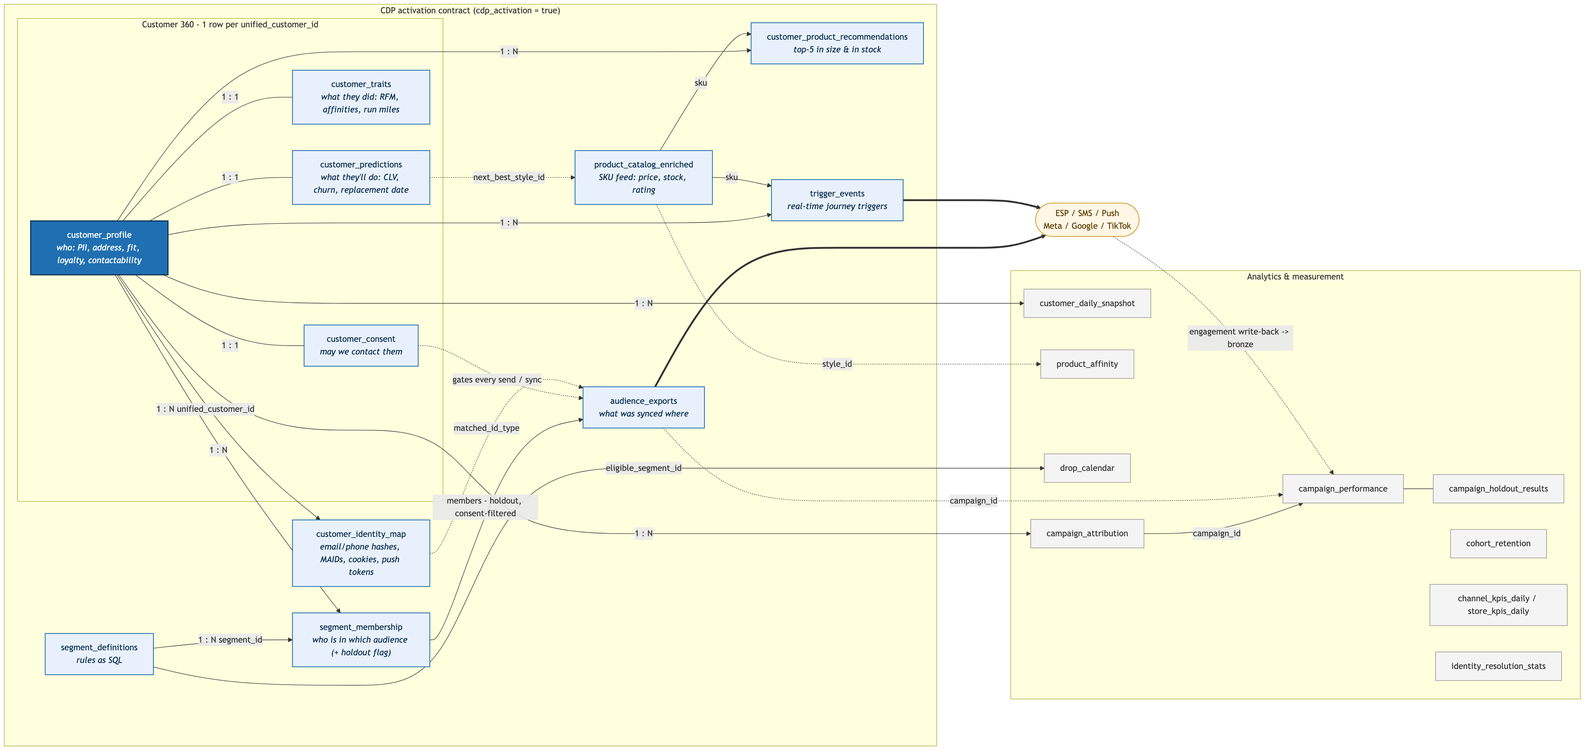
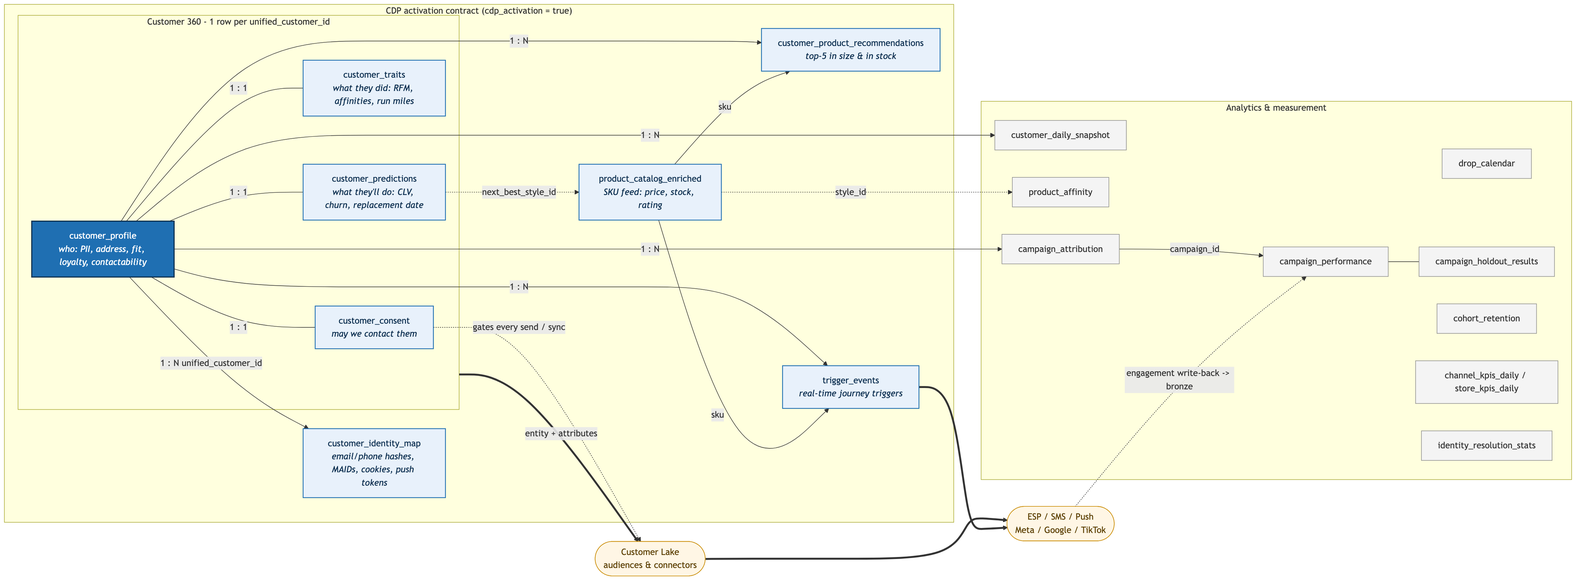
Drop pre-built audience tables; audiences are built in Customer Lake
Remove segment_definitions, segment_membership and audience_exports from gold.
trigger_events and drop_calendar now use inline rules instead of segment_membership.

diff --git a/src/ddl/03_gold.py b/src/ddl/03_gold.py
@@ -2,7 +2,7 @@
 # MAGIC %md
 # MAGIC # Create gold tables
 # MAGIC
-# MAGIC **What it does:** Creates the gold schema and its 21 core tables with a description on every table and column. Safe to re-run: it only refreshes descriptions on existing tables.
+# MAGIC **What it does:** Creates the gold schema and its 18 core tables with a description on every table and column. Safe to re-run: it only refreshes descriptions on existing tables.
 # MAGIC
 # MAGIC - **Reads:** -
 # MAGIC - **Writes:** `retail_gold` schema and tables
@@ -255,47 +255,7 @@ TBLPROPERTIES ('cdp_activation' = 'true')
 # COMMAND ----------
 
 # MAGIC %md
-# MAGIC ### Step 8 - `segment_definitions` - 13 segment definitions with SQL rules (mileage replacement, CS3 fit save, goal race, high value at risk, win-back, sneakerheads, reseller su
-# COMMAND ----------
-
-ddl(r"""
-CREATE TABLE IF NOT EXISTS ${catalog}.${gold}.segment_definitions (
-  segment_id STRING NOT NULL COMMENT 'Audience id from segment_definitions (e.g. SEG-MILEAGE-REPLACE).',
-  segment_name STRING COMMENT 'Audience display name.',
-  description STRING COMMENT 'What the audience is for.',
-  segment_type STRING COMMENT 'static, dynamic, ml or lookalike.',
-  rule_sql STRING COMMENT 'SQL WHERE-clause evaluated over profile + traits + predictions to compute membership.',
-  owner STRING COMMENT 'Owning team.',
-  refresh_schedule STRING COMMENT 'How often membership is recomputed.',
-  is_active BOOLEAN COMMENT 'Whether the audience is live.',
-  created_at TIMESTAMP COMMENT 'When the definition was created.',
-  updated_at TIMESTAMP COMMENT 'When the job last rebuilt this row.',
-  CONSTRAINT pk_segment_definitions PRIMARY KEY (segment_id)
-) COMMENT 'CDP audiences as data: 13 segment definitions with SQL rules (mileage replacement, CS3 fit save, goal race, high value at risk, win-back, sneakerheads, reseller suspects, families, tier upgrade, lookalike seed, suppressions, email fatigue, trail + rain). Defined in notebook gold/03_audiences. Built by job strideforge_medallion, task gold_audiences (notebook gold/03_audiences).'
-TBLPROPERTIES ('cdp_activation' = 'true')
-""")
-# COMMAND ----------
-
-# MAGIC %md
-# MAGIC ### Step 9 - `segment_membership` - customer x segment membership with a 10% deterministic holdout flag
-# COMMAND ----------
-
-ddl(r"""
-CREATE TABLE IF NOT EXISTS ${catalog}.${gold}.segment_membership (
-  segment_id STRING NOT NULL COMMENT 'Audience id from segment_definitions (e.g. SEG-MILEAGE-REPLACE).',
-  unified_customer_id STRING NOT NULL COMMENT 'Unified customer id assigned by identity resolution (silver.identity_graph); joins to customer_profile.',
-  entered_at TIMESTAMP COMMENT 'When the customer entered the audience.',
-  exited_at TIMESTAMP COMMENT 'When the customer left the audience (null while a member).',
-  is_current BOOLEAN COMMENT 'Customer is currently a member.',
-  is_holdout BOOLEAN COMMENT 'Deterministic 10% holdout (excluded from exports) for lift measurement.',
-  refreshed_at TIMESTAMP COMMENT 'When membership was last recomputed.'
-) COMMENT 'CDP audiences: customer x segment membership with a 10% deterministic holdout flag. Derived by evaluating each segment_definitions rule over gold customer_profile + customer_traits + customer_predictions. Built by job strideforge_medallion, task gold_audiences (notebook gold/03_audiences).'
-TBLPROPERTIES ('cdp_activation' = 'true')
-""")
-# COMMAND ----------
-
-# MAGIC %md
-# MAGIC ### Step 10 - `trigger_events` - cart / browse abandonment, back in stock in size, shoe mileage threshold, race training start, heavy-rain trail, tier upgrade, fit return, l
+# MAGIC ### Step 8 - `trigger_events` - cart / browse abandonment, back in stock in size, shoe mileage threshold, race training start, heavy-rain trail, tier upgrade, fit return, l
 # COMMAND ----------
 
 ddl(r"""
@@ -309,13 +269,13 @@ CREATE TABLE IF NOT EXISTS ${catalog}.${gold}.trigger_events (
   campaign_id STRING COMMENT 'Journey / triggered campaign to start (TRG-...).',
   status STRING COMMENT 'new (contactable) or suppressed (no consented channel).',
   expires_at TIMESTAMP COMMENT 'Trigger is stale after this time (trigger_ts + 7 days).'
-) COMMENT 'CDP journey triggers as of the latest data day: cart / browse abandonment, back in stock in size, shoe mileage threshold, race training start, heavy-rain trail, tier upgrade, fit return, lapse risk; status suppressed when not contactable. Derived from silver carts, sessions, web_app_events, shoe_mileage, returns and gold product_catalog_enriched, segment_membership, customer_traits/predictions. Built by job strideforge_medallion, task gold_audiences (notebook gold/03_audiences).'
+) COMMENT 'CDP journey triggers as of the latest data day: cart / browse abandonment, back in stock in size, shoe mileage threshold, race training start, heavy-rain trail, tier upgrade, fit return, lapse risk; status suppressed when not contactable. Derived from silver carts, sessions, web_app_events, shoe_mileage, returns and gold product_catalog_enriched, customer_profile, customer_traits/predictions. Built by job strideforge_medallion, task gold_audiences (notebook gold/03_audiences).'
 TBLPROPERTIES ('cdp_activation' = 'true')
 """)
 # COMMAND ----------
 
 # MAGIC %md
-# MAGIC ### Step 11 - `product_catalog_enriched` - SKU product feed for personalization - current price and markdown, online/store availability and stock status, rating and fit feedback, new-
+# MAGIC ### Step 9 - `product_catalog_enriched` - SKU product feed for personalization - current price and markdown, online/store availability and stock status, rating and fit feedback, new-
 # COMMAND ----------
 
 ddl(r"""
@@ -350,26 +310,7 @@ TBLPROPERTIES ('cdp_activation' = 'true')
 # COMMAND ----------
 
 # MAGIC %md
-# MAGIC ### Step 12 - `audience_exports` - which customers of which segment were synced to which destination (ESP, Meta, Google), consent-filtered and excluding holdouts
-# COMMAND ----------
-
-ddl(r"""
-CREATE TABLE IF NOT EXISTS ${catalog}.${gold}.audience_exports (
-  export_id STRING NOT NULL COMMENT 'Unique export row id.',
-  segment_id STRING COMMENT 'Audience id from segment_definitions (e.g. SEG-MILEAGE-REPLACE).',
-  campaign_id STRING COMMENT 'Campaign id: EM-/SMS-/PUSH- owned campaigns, TRG- triggered flows, ME-/GO-/TI-/YO- paid campaigns (Meta/Google/TikTok/YouTube).',
-  destination STRING COMMENT 'Destination platform: esp, meta, google.',
-  unified_customer_id STRING COMMENT 'Unified customer id assigned by identity resolution (silver.identity_graph); joins to customer_profile.',
-  matched_id_type STRING COMMENT 'Identifier sent for matching (email for ESP, email_sha256 for ad platforms).',
-  exported_at TIMESTAMP COMMENT 'When the audience was synced.',
-  sync_status STRING COMMENT 'Sync outcome (synced).'
-) COMMENT 'CDP activation audit trail: which customers of which segment were synced to which destination (ESP, Meta, Google), consent-filtered and excluding holdouts. Derived from gold segment_membership + customer_profile contactability. Built by job strideforge_medallion, task gold_audiences (notebook gold/03_audiences).'
-TBLPROPERTIES ('cdp_activation' = 'true')
-""")
-# COMMAND ----------
-
-# MAGIC %md
-# MAGIC ### Step 13 - `customer_daily_snapshot` - Month-end customer snapshots for the last 6 months: lifecycle, RFM-style segment, tier, 12-month revenue/orders, churn and CLV as of each sn
+# MAGIC ### Step 10 - `customer_daily_snapshot` - Month-end customer snapshots for the last 6 months: lifecycle, RFM-style segment, tier, 12-month revenue/orders, churn and CLV as of each sn
 # COMMAND ----------
 
 ddl(r"""
@@ -389,7 +330,7 @@ CREATE TABLE IF NOT EXISTS ${catalog}.${gold}.customer_daily_snapshot (
 # COMMAND ----------
 
 # MAGIC %md
-# MAGIC ### Step 14 - `product_affinity` - Style-level basket affinity (support, confidence, lift) for cross-sell, pairs seen in >=30 multi-item orders
+# MAGIC ### Step 11 - `product_affinity` - Style-level basket affinity (support, confidence, lift) for cross-sell, pairs seen in >=30 multi-item orders
 # COMMAND ----------
 
 ddl(r"""
@@ -407,7 +348,7 @@ CREATE TABLE IF NOT EXISTS ${catalog}.${gold}.product_affinity (
 # COMMAND ----------
 
 # MAGIC %md
-# MAGIC ### Step 15 - `drop_calendar` - Limited drops with the eligible audience (sneakerheads) and early-access window
+# MAGIC ### Step 12 - `drop_calendar` - Limited drops with the eligible audience (sneakerheads) and early-access window
 # COMMAND ----------
 
 ddl(r"""
@@ -417,16 +358,16 @@ CREATE TABLE IF NOT EXISTS ${catalog}.${gold}.drop_calendar (
   drop_name STRING COMMENT 'Drop / collab style name.',
   release_ts TIMESTAMP COMMENT 'Release date and time.',
   units_available INT COMMENT 'Units allocated to the drop.',
-  eligible_segment_id STRING COMMENT 'Audience eligible for early access (SEG-SNEAKERHEADS).',
+  eligible_segment_id STRING COMMENT 'Audience eligible for early access (Sneakerheads: drop_hype_score >= 0.5 and reseller_risk_score < 0.5).',
   eligible_customer_count BIGINT COMMENT 'Current size of the eligible audience.',
   early_access_start_ts TIMESTAMP COMMENT 'Member early-access start (release - 1 day) when enabled.',
   is_raffle BOOLEAN COMMENT 'Drop is sold by raffle.'
-) COMMENT 'Limited drops with the eligible audience (sneakerheads) and early-access window. Derived from silver product_drops and gold segment_membership. Built by job strideforge_medallion, task gold_audiences (notebook gold/03_audiences).'
+) COMMENT 'Limited drops with the eligible audience (sneakerheads) and early-access window. Derived from silver product_drops and gold customer_predictions. Built by job strideforge_medallion, task gold_audiences (notebook gold/03_audiences).'
 """)
 # COMMAND ----------
 
 # MAGIC %md
-# MAGIC ### Step 16 - `campaign_performance` - Daily campaign KPIs per campaign and channel: audience, sends, delivered, opens, clicks, unsubscribes, impressions, spend, attributed conver
+# MAGIC ### Step 13 - `campaign_performance` - Daily campaign KPIs per campaign and channel: audience, sends, delivered, opens, clicks, unsubscribes, impressions, spend, attributed conver
 # COMMAND ----------
 
 ddl(r"""
@@ -456,7 +397,7 @@ CREATE TABLE IF NOT EXISTS ${catalog}.${gold}.campaign_performance (
 # COMMAND ----------
 
 # MAGIC %md
-# MAGIC ### Step 17 - `campaign_attribution` - Order-to-campaign attribution for the last 12 months: last-touch and linear models over clicks, UTM visits and paid touchpoints in a 7-day l
+# MAGIC ### Step 14 - `campaign_attribution` - Order-to-campaign attribution for the last 12 months: last-touch and linear models over clicks, UTM visits and paid touchpoints in a 7-day l
 # COMMAND ----------
 
 ddl(r"""
@@ -476,7 +417,7 @@ CREATE TABLE IF NOT EXISTS ${catalog}.${gold}.campaign_attribution (
 # COMMAND ----------
 
 # MAGIC %md
-# MAGIC ### Step 18 - `campaign_holdout_results` - Incrementality for the 20 largest batch email campaigns: recipients vs email-contactable customers not sent, 7-day conversion and revenue, l
+# MAGIC ### Step 15 - `campaign_holdout_results` - Incrementality for the 20 largest batch email campaigns: recipients vs email-contactable customers not sent, 7-day conversion and revenue, l
 # COMMAND ----------
 
 ddl(r"""
@@ -499,7 +440,7 @@ CREATE TABLE IF NOT EXISTS ${catalog}.${gold}.campaign_holdout_results (
 # COMMAND ----------
 
 # MAGIC %md
-# MAGIC ### Step 19 - `cohort_retention` - Acquisition cohort retention and cumulative revenue per customer by month since first order and acquisition channel (online/store)
+# MAGIC ### Step 16 - `cohort_retention` - Acquisition cohort retention and cumulative revenue per customer by month since first order and acquisition channel (online/store)
 # COMMAND ----------
 
 ddl(r"""
@@ -517,7 +458,7 @@ CREATE TABLE IF NOT EXISTS ${catalog}.${gold}.cohort_retention (
 # COMMAND ----------
 
 # MAGIC %md
-# MAGIC ### Step 20 - `channel_kpis_daily` - Daily KPIs per sales channel (web, app, store): sessions, orders, customers, new customers, revenue (USD), AOV, conversion, return and cart-
+# MAGIC ### Step 17 - `channel_kpis_daily` - Daily KPIs per sales channel (web, app, store): sessions, orders, customers, new customers, revenue (USD), AOV, conversion, return and cart-
 # COMMAND ----------
 
 ddl(r"""
@@ -538,7 +479,7 @@ CREATE TABLE IF NOT EXISTS ${catalog}.${gold}.channel_kpis_daily (
 # COMMAND ----------
 
 # MAGIC %md
-# MAGIC ### Step 21 - `store_kpis_daily` - Daily KPIs per store: transactions, identified-customer share, revenue, units, AOV, returns, gait analyses, run-club check-ins, BOPIS pickup
+# MAGIC ### Step 18 - `store_kpis_daily` - Daily KPIs per store: transactions, identified-customer share, revenue, units, AOV, returns, gait analyses, run-club check-ins, BOPIS pickup
 # COMMAND ----------
 
 ddl(r"""
@@ -561,7 +502,7 @@ CREATE TABLE IF NOT EXISTS ${catalog}.${gold}.store_kpis_daily (
 # COMMAND ----------
 
 # MAGIC %md
-# MAGIC ### Step 22 - `identity_resolution_stats` - Identity resolution run statistics (appended per run): source records, unified customers, anonymous profiles, dedup rate, ids per customer,
+# MAGIC ### Step 19 - `identity_resolution_stats` - Identity resolution run statistics (appended per run): source records, unified customers, anonymous profiles, dedup rate, ids per customer,
 # COMMAND ----------
 
 ddl(r"""
@@ -592,3 +533,11 @@ if "goal_race_date" not in _cols:
     spark.sql(f"ALTER TABLE {_t} ADD COLUMNS (goal_race_date DATE COMMENT 'next half/full marathon (training goal)', "
               "goal_race_distance_km DOUBLE)")
     print("added goal_race_* columns")
+# COMMAND ----------
+
+# MAGIC %md
+# MAGIC ### Remove the old pre-built audience tables (audiences are now built in Customer Lake)
+# COMMAND ----------
+
+for _t in ("segment_definitions", "segment_membership", "audience_exports"):
+    spark.sql(f"DROP TABLE IF EXISTS {P['catalog']}.{P['gold']}.{_t}")

diff --git a/src/gold/03_audiences.py b/src/gold/03_audiences.py
@@ -1,11 +1,11 @@
 # Databricks notebook source
 # MAGIC %md
-# MAGIC # Gold 03 - Audiences, triggers and exports
+# MAGIC # Gold 03 - Journey triggers and drop calendar
 # MAGIC
-# MAGIC **What it does:** Defines 13 ready-made audiences as SQL rules and works out who is in each, finds today's journey triggers (abandoned cart, worn-out shoes ...), and records what would be synced to each channel.
+# MAGIC **What it does:** Finds today's journey triggers (abandoned cart, worn-out shoes, rain on trail runners ...) and lists upcoming limited drops with the size of the eligible audience. Audiences themselves are built in Customer Lake.
 # MAGIC
 # MAGIC - **Reads:** gold Customer 360, scores and product feed; silver carts, sessions, returns, shoe mileage, weather
-# MAGIC - **Writes:** `segment_definitions`, `segment_membership`, `trigger_events`, `drop_calendar`, `audience_exports`
+# MAGIC - **Writes:** `trigger_events`, `drop_calendar`
 # MAGIC - **Runs in:** `strideforge_medallion` -> `gold_audiences`
 # MAGIC
 # MAGIC Catalog and schema names come from widgets (set by the job, or edit them at the top when running by hand).
@@ -16,7 +16,7 @@
 # COMMAND ----------
 
 # MAGIC %md
-# MAGIC ### Step 1 - Define the 13 audiences as SQL rules
+# MAGIC ### Step 1 - One row per customer with profile, traits and scores
 # COMMAND ----------
 
 S, G = f"{a.catalog}.{a.silver}", f"{a.catalog}.{a.gold}"
@@ -24,67 +24,14 @@ sql = spark.sql
 
 ASOF = f"(SELECT max(order_date) FROM {S}.orders)"
 
-# Rules are WHERE-clauses evaluated against seg_base (profile + traits + predictions + consent, one row per customer)
-SEGMENTS = [
-    ("SEG-MILEAGE-REPLACE", "Runners due for new shoes", "Active registered shoe past 400 miles; email-contactable",
-     "ml", "active_shoe_miles >= 400 AND email_contactable"),
-    ("SEG-CS3-FIT-SAVE", "CloudStride 3 fit-return save", "Refunded a CloudStride 3 for 'too small' in the last 120 days",
-     "dynamic", f"""unified_customer_id IN (SELECT r.unified_customer_id FROM {S}.returns r JOIN {S}.skus k USING (sku)
-         JOIN {S}.products p USING (style_id) WHERE p.style_name LIKE 'CloudStride 3%' AND r.return_reason = 'too_small'
-         AND r.return_type = 'refund' AND r.return_ts > {ASOF} - INTERVAL 120 DAYS)"""),
-    ("SEG-GOAL-RACE-8-20WK", "Goal race in 8-20 weeks", "Next half/full marathon is 56-140 days out (training block)",
-     "dynamic", f"goal_race_date BETWEEN {ASOF} + INTERVAL 56 DAYS AND {ASOF} + INTERVAL 140 DAYS"),
-    ("SEG-HIGH-CLV-AT-RISK", "High value at risk", "Platinum/gold CLV with churn probability above 0.5",
-     "ml", "clv_tier IN ('platinum', 'gold') AND churn_probability > 0.5"),
-    ("SEG-LAPSED-WINBACK", "Lapsed win-back (discount OK)", "Lapsed >365 days, not a full-price buyer, email-contactable",
-     "dynamic", "lifecycle_stage = 'lapsed' AND coalesce(discount_sensitivity, 'mixed') <> 'full_price' AND email_contactable"),
-    ("SEG-SNEAKERHEADS", "Sneakerheads", "High drop-hype score, low reseller risk",
-     "ml", "drop_hype_score >= 0.5 AND reseller_risk_score < 0.5"),
-    ("SEG-RESELLER-SUSPECTS", "Reseller suspects (suppress from drops)", "Bought 3+ sizes of one limited drop",
-     "ml", "reseller_risk_score >= 0.6"),
-    ("SEG-BTS-FAMILIES", "Back-to-school families", "Household with kids purchases",
-     "dynamic", "size(kids_age_bands) > 0"),
-    ("SEG-TIER-UPGRADE", "Close to Elite", "Pro members within $200 of the Elite threshold",
-     "dynamic", "loyalty_tier = 'Pro' AND revenue_12m BETWEEN 800 AND 999"),
-    ("SEG-LOOKALIKE-SEED", "Lookalike seed (top 5% CLV)", "Top 5% predicted CLV and paid-media eligible",
-     "lookalike", f"paid_media_eligible AND predicted_clv_12m >= (SELECT percentile(predicted_clv_12m, 0.95) FROM {G}.customer_predictions)"),
-    ("SEG-RECENT-BUYERS-SUPPRESS", "Recent purchasers (paid suppression)", "Ordered in the last 14 days",
-     "dynamic", f"last_order_date > {ASOF} - INTERVAL 14 DAYS"),
-    ("SEG-EMAIL-FATIGUED", "Email fatigued", "Contactable but opened <5% of emails in 90 days",
-     "dynamic", "email_contactable AND email_open_rate_90d < 0.05"),
-    ("SEG-TRAIL-RAIN", "Trail runners + heavy rain in 3 days", "Trail affinity and >=8mm rain forecast in home postal code",
-     "dynamic", f"""coalesce(sport_affinity['Trail Running'], 0) >= 0.2 AND postal_code IN
-         (SELECT postal_code FROM {S}.weather_daily WHERE is_forecast AND precipitation_mm >= 8
-          AND weather_date > {ASOF} AND weather_date <= {ASOF} + INTERVAL 3 DAYS)"""),
-]
-
-# Step 2 - one row per customer with everything the rules can filter on, then compute membership
 sql(f"""CREATE OR REPLACE TEMP VIEW seg_base AS
 SELECT p.*, t.* EXCEPT (unified_customer_id, updated_at), pr.* EXCEPT (unified_customer_id)
 FROM {G}.customer_profile p JOIN {G}.customer_traits t USING (unified_customer_id)
 JOIN {G}.customer_predictions pr USING (unified_customer_id)""")
-
-defs = spark.createDataFrame(
-    [(sid, name, desc, typ, rule) for sid, name, desc, typ, rule in SEGMENTS],
-    "segment_id string, segment_name string, description string, segment_type string, rule_sql string")
-defs.createOrReplaceTempView("seg_defs")
-sql(f"""INSERT OVERWRITE {G}.segment_definitions BY NAME
-SELECT segment_id, segment_name, description, segment_type, rule_sql, 'cdp_team' AS owner, 'daily' AS refresh_schedule,
-       true AS is_active, current_timestamp() AS created_at, current_timestamp() AS updated_at FROM seg_defs""")
-
-members = " UNION ALL ".join(
-    f"SELECT '{sid}' AS segment_id, unified_customer_id FROM seg_base WHERE {rule}" for sid, _, _, _, rule in SEGMENTS)
-sql(f"""INSERT OVERWRITE {G}.segment_membership BY NAME
-SELECT segment_id, unified_customer_id, current_timestamp() AS entered_at, CAST(NULL AS TIMESTAMP) AS exited_at,
-       true AS is_current, pmod(xxhash64(unified_customer_id, segment_id), 10) = 0 AS is_holdout,
-       current_timestamp() AS refreshed_at
-FROM ({members})""")
-for r in sql(f"SELECT segment_id, count(*) n FROM {G}.segment_membership GROUP BY 1 ORDER BY 1").collect():
-    print(f"  {r.segment_id:28s} {r.n:>10,d}", flush=True)
 # COMMAND ----------
 
 # MAGIC %md
-# MAGIC ### Step 3 - Find today's journey triggers
+# MAGIC ### Step 2 - Find today's journey triggers
 # COMMAND ----------
 
 sql(f"""INSERT OVERWRITE {G}.trigger_events BY NAME
@@ -115,14 +62,17 @@ t AS (
   SELECT unified_customer_id, 'race_training_start', (SELECT ts FROM asof),
          map('goal_race_date', CAST(goal_race_date AS STRING), 'distance_km', CAST(goal_race_distance_km AS STRING)),
          NULL, 'TRG-RACE-16WK'
-  FROM seg_base   -- 16-week training block starts: same goal-race definition as SEG-GOAL-RACE-8-20WK
+  FROM seg_base   -- a 16-week training block starts for the goal race
   WHERE goal_race_date BETWEEN (SELECT d FROM asof) + INTERVAL 105 DAYS AND (SELECT d FROM asof) + INTERVAL 125 DAYS
   UNION ALL
-  SELECT m.unified_customer_id, 'weather_rain', (SELECT ts FROM asof), map('postal_code', p.postal_code), NULL, 'TRG-RAIN-TRAIL'
-  FROM {G}.segment_membership m JOIN {G}.customer_profile p USING (unified_customer_id) WHERE m.segment_id = 'SEG-TRAIL-RAIN'
+  SELECT unified_customer_id, 'weather_rain', (SELECT ts FROM asof), map('postal_code', postal_code), NULL, 'TRG-RAIN-TRAIL'
+  FROM seg_base   -- trail runners with >=8mm rain forecast at home in the next 3 days
+  WHERE coalesce(sport_affinity['Trail Running'], 0) >= 0.2 AND postal_code IN
+    (SELECT postal_code FROM {S}.weather_daily WHERE is_forecast AND precipitation_mm >= 8
+     AND weather_date > (SELECT d FROM asof) AND weather_date <= (SELECT d FROM asof) + INTERVAL 3 DAYS)
   UNION ALL
   SELECT unified_customer_id, 'tier_upgrade_near', (SELECT ts FROM asof), map('tier', 'Pro'), NULL, 'TRG-TIER-UPGRADE'
-  FROM {G}.segment_membership WHERE segment_id = 'SEG-TIER-UPGRADE'
+  FROM seg_base WHERE loyalty_tier = 'Pro' AND revenue_12m BETWEEN 800 AND 999
   UNION ALL
   SELECT r.unified_customer_id, 'fit_return', r.return_ts, map('return_id', r.return_id, 'reason', r.return_reason), r.sku, 'TRG-FIT-SAVE'
   FROM {S}.returns r WHERE r.is_fit_related AND r.unified_customer_id IS NOT NULL AND r.return_ts > (SELECT ts FROM asof) - INTERVAL 7 DAYS
@@ -137,30 +87,12 @@ FROM t JOIN {G}.customer_profile p USING (unified_customer_id)""")
 # COMMAND ----------
 
 # MAGIC %md
-# MAGIC ### Step 4 - Drop calendar with the eligible audience
+# MAGIC ### Step 3 - Drop calendar with the eligible audience size (sneakerheads)
 # COMMAND ----------
 
 sql(f"""INSERT OVERWRITE {G}.drop_calendar BY NAME
-SELECT d.drop_id, d.style_id, d.drop_name, d.release_ts, d.units_available, 'SEG-SNEAKERHEADS' AS eligible_segment_id,
-       (SELECT count(*) FROM {G}.segment_membership WHERE segment_id = 'SEG-SNEAKERHEADS') AS eligible_customer_count,
+SELECT d.drop_id, d.style_id, d.drop_name, d.release_ts, d.units_available, 'Sneakerheads' AS eligible_segment_id,
+       (SELECT count(*) FROM seg_base WHERE drop_hype_score >= 0.5 AND reseller_risk_score < 0.5) AS eligible_customer_count,
        CASE WHEN d.member_early_access THEN d.release_ts - INTERVAL 1 DAY END AS early_access_start_ts, d.is_raffle
 FROM {S}.product_drops d""")
-# COMMAND ----------
-
-# MAGIC %md
-# MAGIC ### Step 5 - Record what each channel would receive (consent applied)
-# COMMAND ----------
-
-sql(f"""INSERT OVERWRITE {G}.audience_exports BY NAME
-WITH x AS (
-  SELECT 'SEG-MILEAGE-REPLACE' AS seg, 'TRG-MILEAGE-REPLACE' AS camp, 'esp' AS dest, 'email' AS idt
-  UNION ALL SELECT 'SEG-CS3-FIT-SAVE', 'TRG-FIT-SAVE', 'esp', 'email'
-  UNION ALL SELECT 'SEG-LOOKALIKE-SEED', 'META-LAL-SEED', 'meta', 'email_sha256'
-  UNION ALL SELECT 'SEG-RECENT-BUYERS-SUPPRESS', 'GOOGLE-SUPPRESS', 'google', 'email_sha256')
-SELECT concat('EX', upper(substr(sha2(concat_ws('|', x.seg, x.dest, m.unified_customer_id), 256), 1, 14))) AS export_id,
-       x.seg AS segment_id, x.camp AS campaign_id, x.dest AS destination, m.unified_customer_id, x.idt AS matched_id_type,
-       CAST({ASOF} AS TIMESTAMP) + INTERVAL 1 DAY + INTERVAL 6 HOURS AS exported_at, 'synced' AS sync_status
-FROM x JOIN {G}.segment_membership m ON m.segment_id = x.seg AND NOT m.is_holdout
-JOIN {G}.customer_profile p USING (unified_customer_id)
-WHERE (x.dest = 'esp' AND p.email_contactable) OR (x.dest IN ('meta', 'google') AND p.paid_media_eligible)""")
-print("triggers:", spark.table(f"{G}.trigger_events").count(), " exports:", spark.table(f"{G}.audience_exports").count(), flush=True)
+print("triggers:", spark.table(f"{G}.trigger_events").count(), " drops:", spark.table(f"{G}.drop_calendar").count(), flush=True)

diff --git a/README.md b/README.md
@@ -13,7 +13,7 @@ Databricks Asset Bundle, so it can be deployed to any workspace.
 |---|---|---|
 | Bronze | `retail_bronze` | 42 raw tables, as they would arrive from each system (stores, website, app, loyalty, email, ads, support, …) |
 | Silver | `retail_silver` | 37 cleaned tables, with every record linked to one customer id |
-| Gold | `retail_gold` | 31 ready-to-use tables: the customer view, scores, audiences, Customer Lake event tables and campaign results |
+| Gold | `retail_gold` | 28 ready-to-use tables: the customer view, scores, journey triggers, Customer Lake event tables and campaign results |
 
 `retail_synthetic_truth` holds the generator's "answer key" (which records really belong to whom), used to check
 identity-resolution accuracy. Every gold table and column has a description in Unity Catalog.
@@ -47,7 +47,7 @@ Two jobs. Every step is a notebook with a short "what it does / reads / writes" 
 | `silver_customer_enrichment` | Addresses, households, shoe/apparel sizes, consent |
 | `gold_customer_360` | One row per customer: profile, consent, identifiers, behaviour |
 | `gold_predictions_products` | Simple rule-based scores, top-5 product picks, product feed |
-| `gold_audiences` | 13 ready-made audiences, journey triggers, export records |
+| `gold_audiences` | Journey triggers (abandoned cart, worn-out shoes, rain on trail runners ...) and the drop calendar |
 | `gold_measurement` | Campaign credit, campaign results, holdout lift, cohort and KPI tables |
 | `gold_customer_lake` | Household table and 9 event tables for Customer Lake |
 
@@ -59,7 +59,7 @@ Point one entity at the gold tables:
 |---|---|---|
 | Retail - StrideForge Customer | `customer_profile` (`unified_customer_id`) | 1:1 `customer_consent`, `customer_traits`, `customer_predictions`; many:1 `household_profile`; 1:many `customer_product_recommendations`, `customer_identity_map`; 9 event tables (`purchase_events`, `return_events`, `digital_events`, `message_engagement_events`, `run_activity_events`, `loyalty_events`, `race_registration_events`, `support_events`, `review_events`) |
 
-Exact wizard settings, suggested attributes and audiences: [docs/customer_lake_setup.md](docs/customer_lake_setup.md).
+Audiences are built in Customer Lake, not in gold. Exact wizard settings, suggested attributes and 13 example audiences: [docs/customer_lake_setup.md](docs/customer_lake_setup.md).
 
 ## Gold data model
 

diff --git a/docs/customer_lake_setup.md b/docs/customer_lake_setup.md
@@ -78,7 +78,7 @@ They are refreshed by the `strideforge_medallion` job (`gold_customer_lake` task
 Column attributes: `member_count`, `has_kids`, `kids_age_bands`, `household_revenue_12m`, `household_predicted_clv_12m`,
 `any_email_contactable`, `any_paid_media_eligible`, `top_sport`, `city`, `state`, `country`, `home_store_id`.
 
-## 3. Audiences (the gold segments, rebuilt in Customer Lake)
+## 3. Audiences to build in Customer Lake
 
 | Audience | Entity | Conditions |
 |---|---|---|
